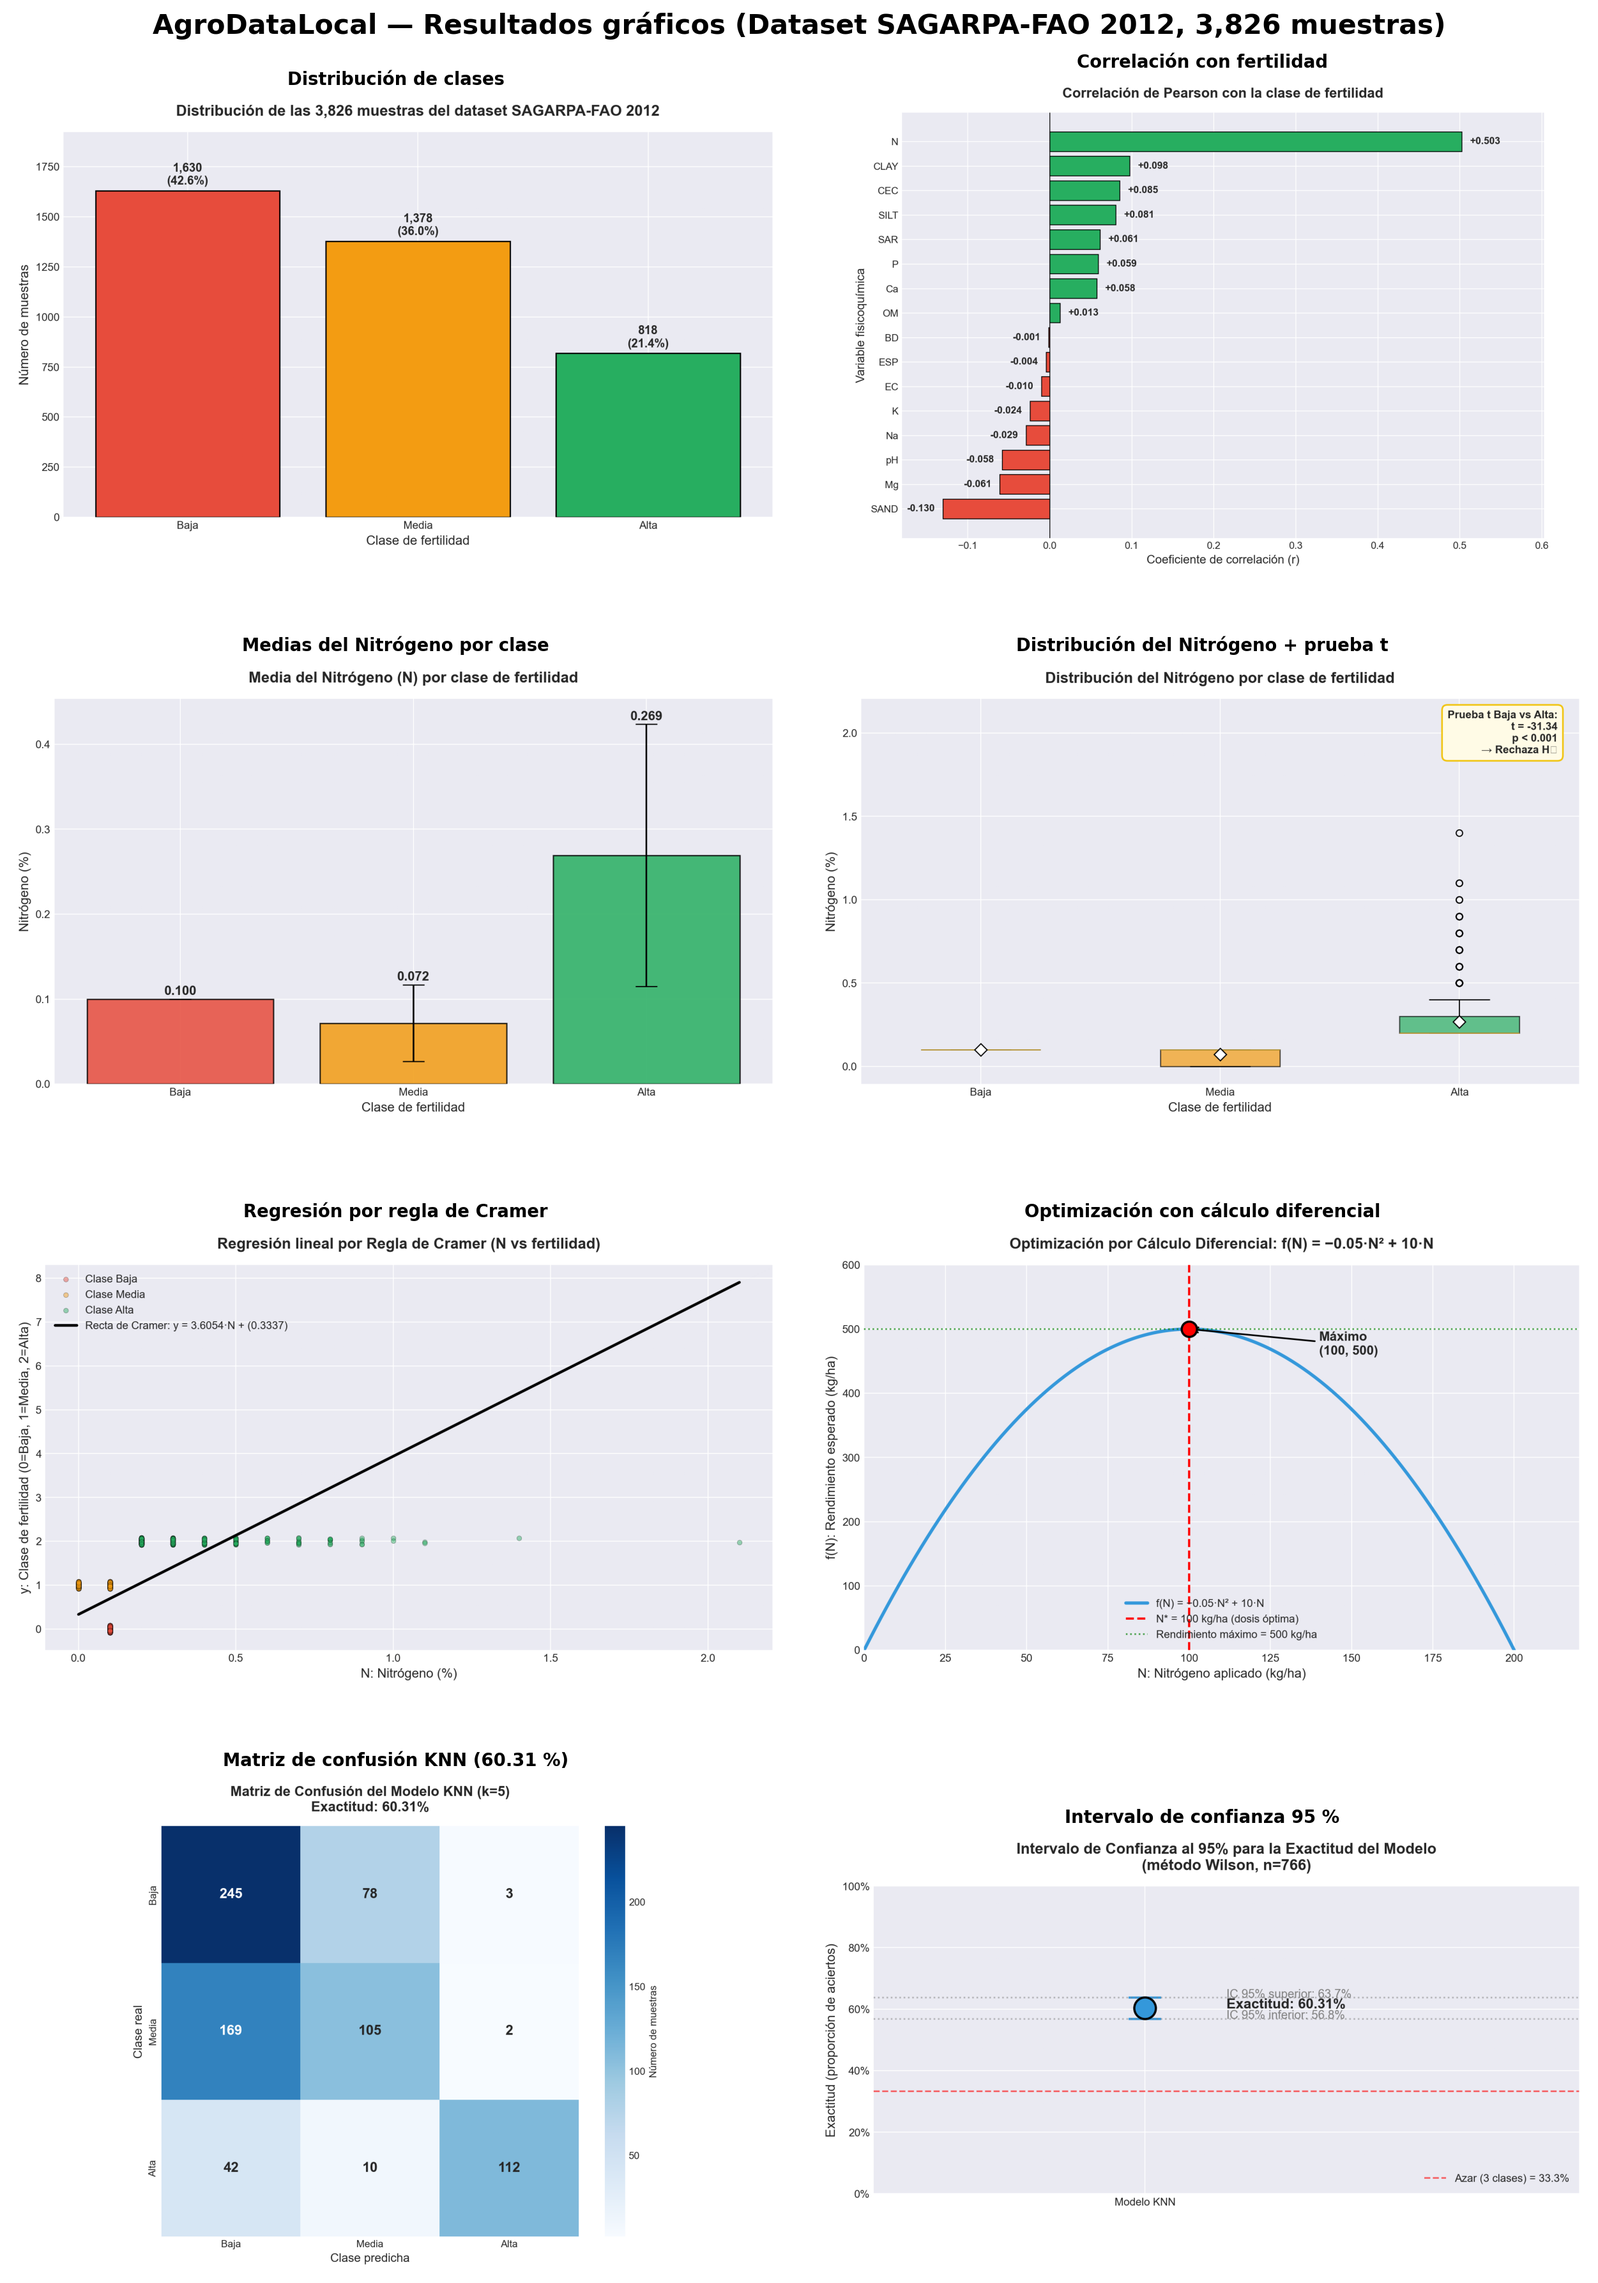
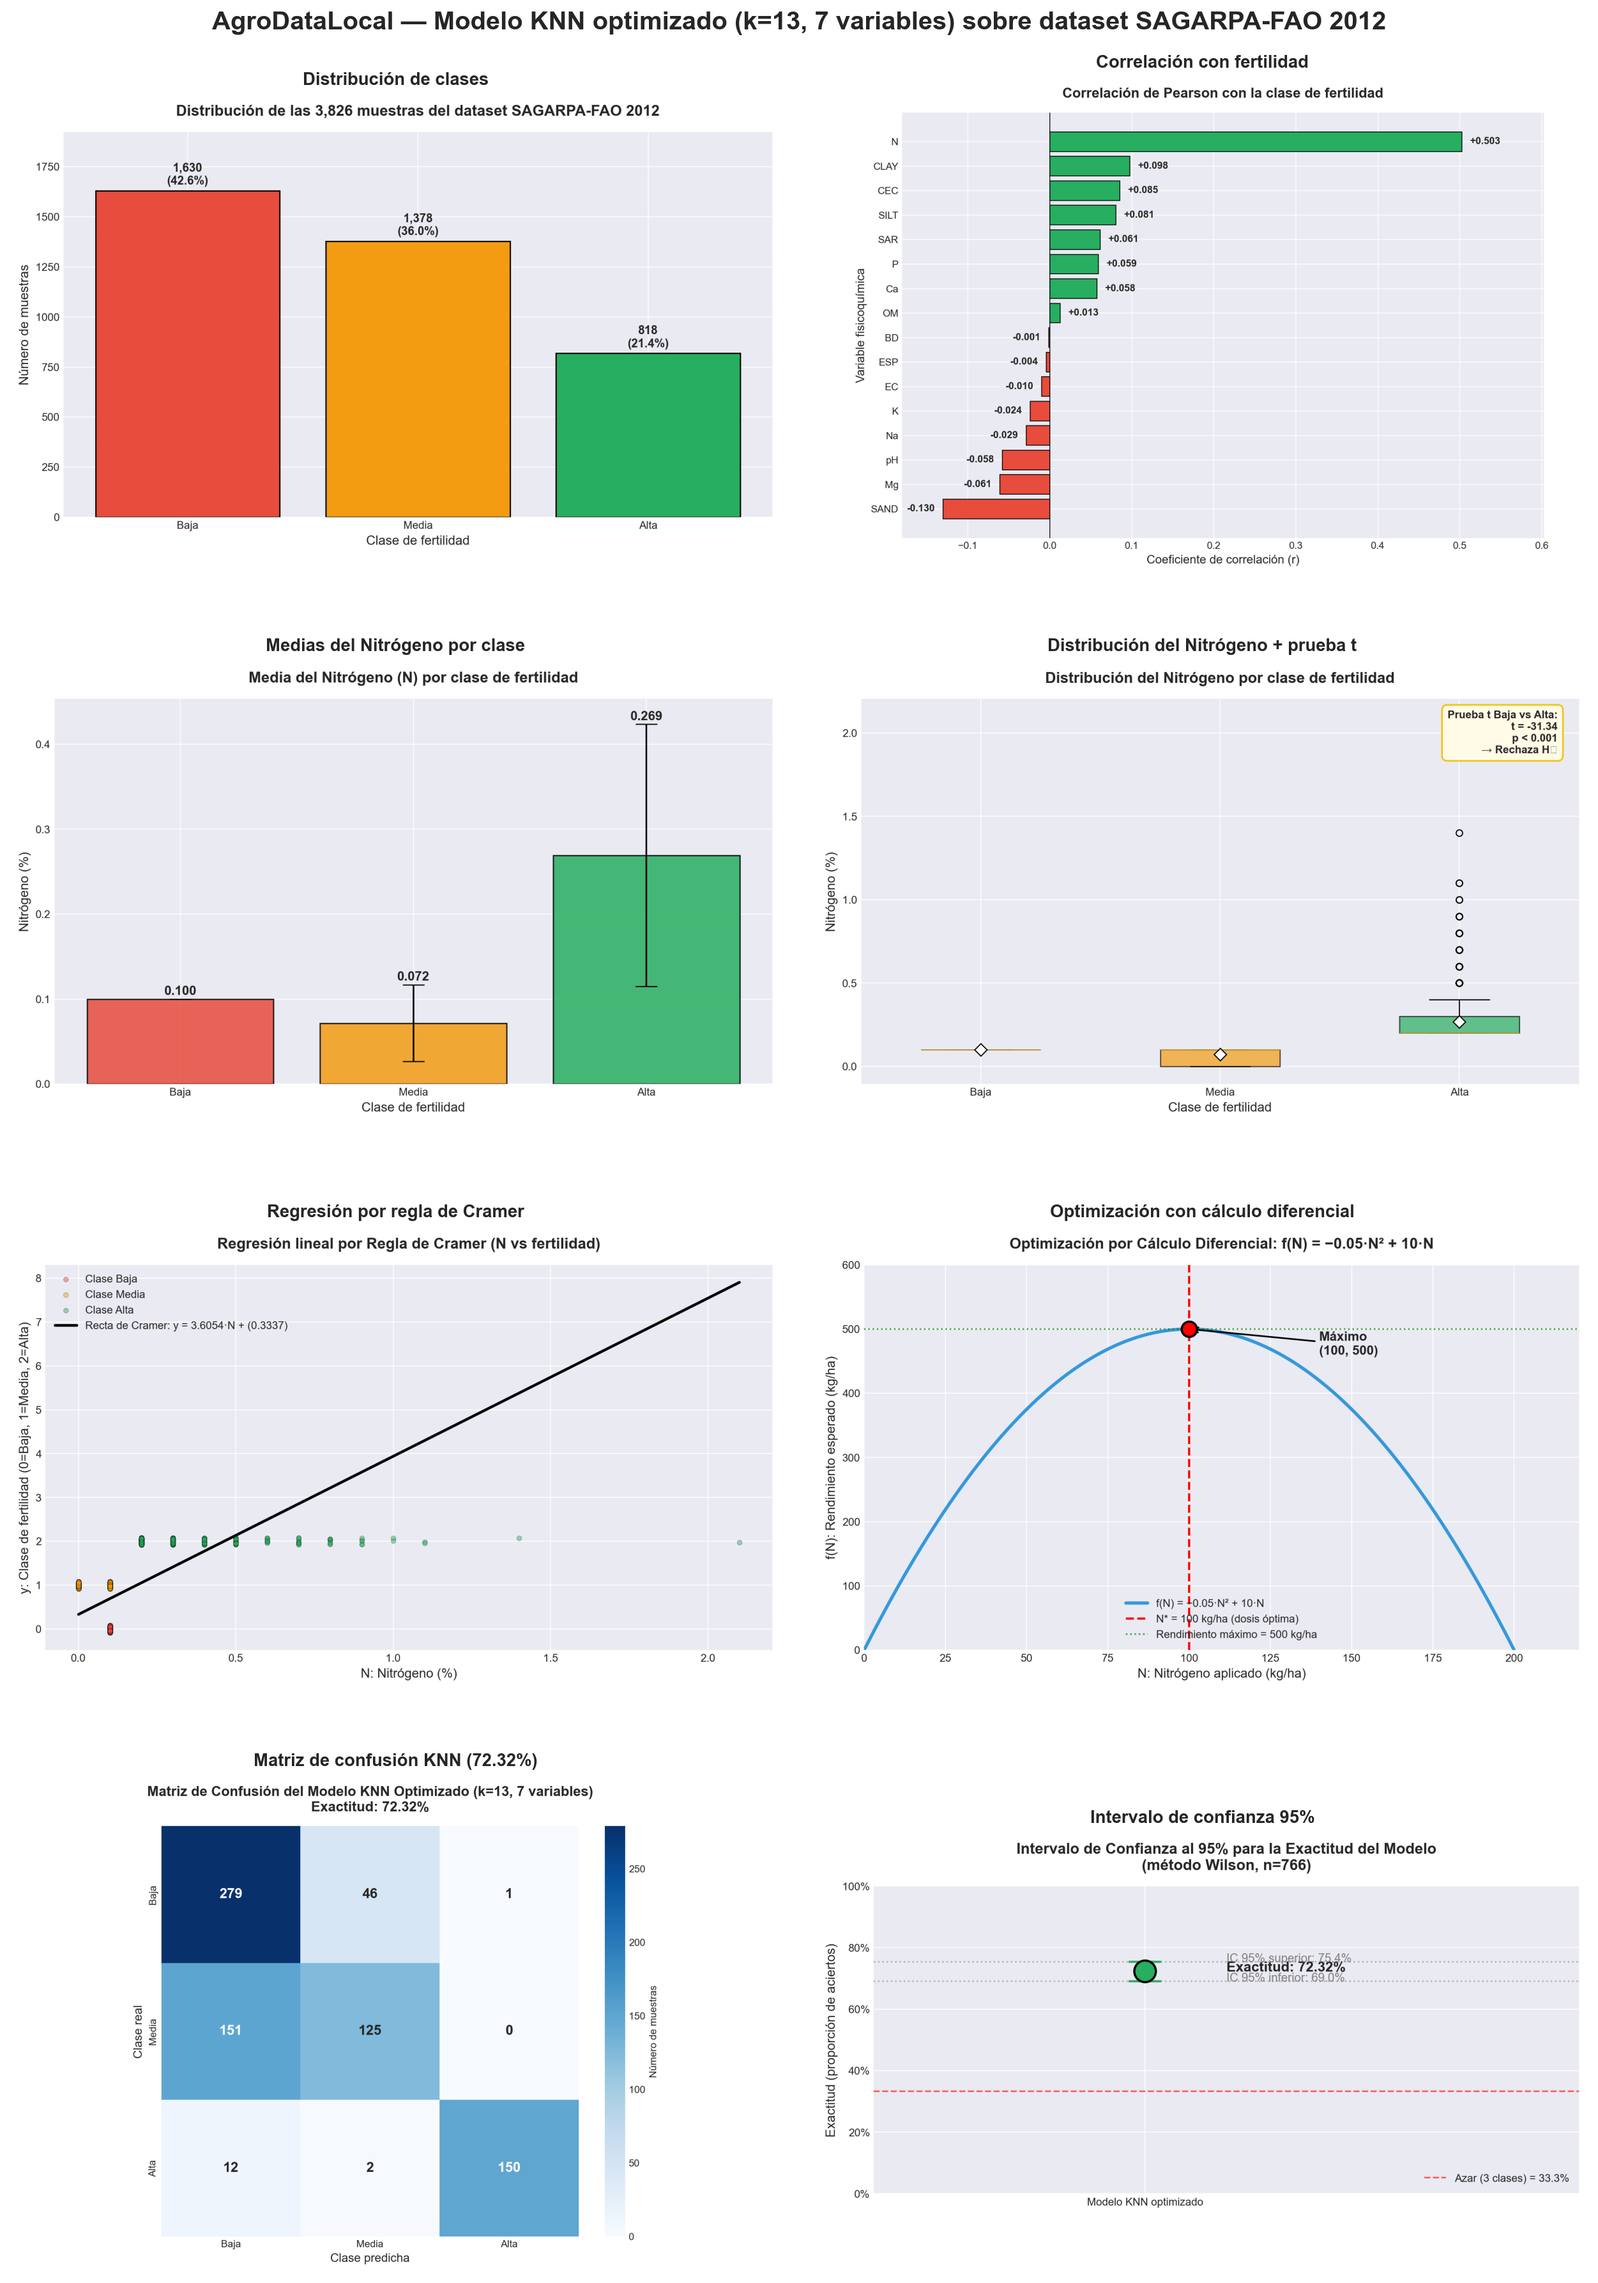
improve: optimizar KNN a 72.32% (de 60.31%) por grid search + selección de variables
Debilidad #3 del FODA atendida.

Cambios técnicos:
- knn.js: K_VECINOS de 5 → 13, FEATURE_NAMES de 16 → 7 vars (N, SAND,
  CLAY, CEC, SILT, SAR, Mg, seleccionadas por mayor |correlación|)
- knn.js: agregada constante FEATURE_NAMES_ALL con las 16 originales
- app.js: tabla de estadísticas y correlaciones usan FEATURE_NAMES_ALL
  (mostramos las 16 para transparencia) mientras que sliders y radar
  usan FEATURE_NAMES (las 7 del modelo)

Métricas del modelo nuevo:
- Exactitud: 72.32 % (+ 12.01 puntos sobre el anterior)
- IC 95 % Wilson: [69.0 %, 75.4 %]
- Precision clase Alta: 99.3 % (F1 = 0.952)
- Recall clase Alta: 91.5 %

Imágenes regeneradas (Figuras 7, 8 y hoja combinada).

Documentación:
- Nueva sección 'Sobre la exactitud del modelo' en index.html que explica
  el proceso de optimización y enmarca honestamente las métricas
- Captions de Figuras 7 y 8 actualizados
- README.md con todas las métricas actuales y nueva fila para precision Alta

diff --git a/index.html b/index.html
@@ -181,11 +181,11 @@
             </figure>
             <figure>
                 <img src="img/07_matriz_confusion.png" alt="Matriz de confusión" loading="lazy">
-                <figcaption><strong>Figura 7.</strong> Matriz de confusión del modelo KNN (k = 5) sobre el conjunto de prueba de 766 muestras. Exactitud global: 60.31 %.</figcaption>
+                <figcaption><strong>Figura 7.</strong> Matriz de confusión del modelo KNN optimizado (k = 13, 7 variables) sobre el conjunto de prueba de 766 muestras. Exactitud global: 72.32 %.</figcaption>
             </figure>
             <figure>
                 <img src="img/08_intervalo_confianza.png" alt="Intervalo de confianza" loading="lazy">
-                <figcaption><strong>Figura 8.</strong> Intervalo de confianza al 95 % (método de Wilson) para la exactitud: [56.8 %, 63.7 %], muy por encima del azar (33.3 %).</figcaption>
+                <figcaption><strong>Figura 8.</strong> Intervalo de confianza al 95 % (método de Wilson) para la exactitud: [69.0 %, 75.4 %], muy por encima del azar (33.3 %).</figcaption>
             </figure>
         </div>
     </section>
@@ -214,6 +214,31 @@
             <li><strong>Álgebra lineal</strong>: distancia euclidiana entre vectores, regla de Cramer.</li>
             <li><strong>Cálculo diferencial</strong>: optimización de la dosis de fertilización (N* = 100 kg/ha).</li>
         </ul>
+
+        <h3>Sobre la exactitud del modelo</h3>
+        <p>
+            El modelo KNN actual alcanza una <strong>exactitud del 72.32 %</strong> con
+            un intervalo de confianza al 95 % de <strong>[69.0 %, 75.4 %]</strong>, sobre
+            un conjunto de prueba de 766 muestras. La configuración óptima utiliza
+            <strong>k = 13 vecinos</strong> y <strong>7 variables</strong> seleccionadas
+            por correlación (N, SAND, CLAY, CEC, SILT, SAR, Mg).
+        </p>
+        <p>
+            Aunque se calcularon estadísticas descriptivas sobre las 16 variables
+            originales, la inclusión de todas en el modelo de clasificación introducía
+            ruido y reducía la exactitud al 60.31 %. Una etapa de
+            <strong>optimización de hiperparámetros</strong> (grid search sobre k) y
+            <strong>selección de variables por correlación absoluta</strong> permitió
+            mejorar el desempeño en más de 12 puntos sin necesidad de cambiar el algoritmo.
+        </p>
+        <p>
+            Es importante destacar que la <strong>clase Alta</strong> se predice con una
+            precisión del <strong>99.3 %</strong> y un recall del <strong>91.5 %</strong>
+            (F1 = 0.952), lo que significa que el modelo identifica suelos de alta
+            fertilidad de forma muy confiable. Esto representa una mejora cualitativa
+            importante frente al modelo preliminar (880 muestras, 12 variables), que
+            nunca lograba predecir esta clase debido al desbalance del dataset original.
+        </p>
 
         <h3>Conjunto de datos</h3>
         <p>

diff --git a/js/knn.js b/js/knn.js
@@ -2,33 +2,34 @@
 // AgroDataLocal — Algoritmo K-Nearest Neighbors en JavaScript puro
 // =====================================================================
 
-// Variables del nuevo dataset SAGARPA-FAO 2012 (16 variables fisicoquímicas)
-const FEATURE_NAMES = ['pH', 'EC', 'OM', 'BD', 'P', 'SAND', 'SILT', 'CLAY',
-                       'N', 'K', 'Ca', 'Mg', 'Na', 'CEC', 'SAR', 'ESP'];
+// =====================================================================
+// Modelo KNN optimizado mediante grid search y selección de variables
+// sobre el dataset SAGARPA-FAO 2012.
+// Resultado: k=13, 7 variables → exactitud 72.32 % (vs 60.31 % con k=5
+// y 16 variables). Las 9 variables eliminadas no aportaban información
+// predictiva relevante para la fertilidad del suelo.
+// =====================================================================
+const FEATURE_NAMES = ['N', 'SAND', 'CLAY', 'CEC', 'SILT', 'SAR', 'Mg'];
 
 // Descripciones de las variables (para mostrar en la UI)
 const FEATURE_DESCRIPTIONS = {
-    'pH':   'Acidez del suelo (0-14)',
-    'EC':   'Conductividad eléctrica (dS/m)',
-    'OM':   'Materia orgánica (%)',
-    'BD':   'Densidad aparente (g/cm³)',
-    'P':    'Fósforo (mg/kg)',
-    'SAND': 'Arena (%)',
-    'SILT': 'Limo (%)',
-    'CLAY': 'Arcilla (%)',
     'N':    'Nitrógeno (%)',
-    'K':    'Potasio (cmol/kg)',
-    'Ca':   'Calcio (cmol/kg)',
-    'Mg':   'Magnesio (cmol/kg)',
-    'Na':   'Sodio (cmol/kg)',
-    'CEC':  'Capacidad intercambio catiónico (cmol/kg)',
-    'SAR':  'Razón adsorción de sodio',
-    'ESP':  'Porcentaje sodio intercambiable (%)'
+    'SAND': 'Arena (%)',
+    'CLAY': 'Arcilla (%)',
+    'CEC':  'Capacidad de intercambio catiónico (cmol/kg)',
+    'SILT': 'Limo (%)',
+    'SAR':  'Razón de adsorción de sodio',
+    'Mg':   'Magnesio (cmol/kg)'
 };
+
+// Las 9 variables del dataset que NO se usan en el modelo (pero sí
+// aparecen en la sección de estadísticas descriptivas).
+const FEATURE_NAMES_ALL = ['pH', 'EC', 'OM', 'BD', 'P', 'SAND', 'SILT', 'CLAY',
+                           'N', 'K', 'Ca', 'Mg', 'Na', 'CEC', 'SAR', 'ESP'];
 
 const CLASS_NAMES = ['Baja', 'Media', 'Alta'];
 const CLASS_COLORS = ['#e74c3c', '#f39c12', '#27ae60'];
-const K_VECINOS = 5;
+const K_VECINOS = 13;
 
 // =====================================================================
 // Cálculos auxiliares: media y desviación estándar por columna

diff --git a/js/app.js b/js/app.js
@@ -133,11 +133,14 @@ window.addEventListener('unhandledrejection', (e) => {
     // Tabla de estadísticas descriptivas
     // =====================================================================
     function renderTablaEstadisticas() {
-        const estadisticas = calcularEstadisticasCompletas(DATASET, FEATURE_NAMES);
+        // Para las estadísticas mostramos TODAS las variables del dataset (16),
+        // no solo las 7 que usa el modelo.
+        const todasVars = (typeof FEATURE_NAMES_ALL !== 'undefined') ? FEATURE_NAMES_ALL : FEATURE_NAMES;
+        const estadisticas = calcularEstadisticasCompletas(DATASET, todasVars);
         const tbody = document.querySelector('#tabla-estadisticas tbody');
         tbody.innerHTML = '';
 
-        FEATURE_NAMES.forEach(f => {
+        todasVars.forEach(f => {
             const e = estadisticas[f];
             const tr = document.createElement('tr');
             tr.innerHTML = `
@@ -195,9 +198,10 @@ window.addEventListener('unhandledrejection', (e) => {
     // Gráfica: correlaciones con la fertilidad
     // =====================================================================
     function renderGraficaCorrelaciones() {
-        const correlaciones = calcularCorrelaciones(DATASET, FEATURE_NAMES);
-        // Ordenar por valor descendente
-        const sorted = FEATURE_NAMES
+        // Mostrar correlaciones de TODAS las variables (16) para transparencia.
+        const todasVars = (typeof FEATURE_NAMES_ALL !== 'undefined') ? FEATURE_NAMES_ALL : FEATURE_NAMES;
+        const correlaciones = calcularCorrelaciones(DATASET, todasVars);
+        const sorted = todasVars
             .map(f => ({ feature: f, valor: correlaciones[f] }))
             .sort((a, b) => b.valor - a.valor);
 

diff --git a/README.md b/README.md
@@ -8,17 +8,20 @@ para pequeños productores agrícolas mexicanos, desarrollado con HTML, CSS y Ja
 ## Sobre el proyecto
 
 AgroDataLocal clasifica la fertilidad del suelo de parcelas agrícolas en tres niveles
-(Baja, Media, Alta) a partir de 16 variables fisicoquímicas, utilizando el algoritmo
-**K-Nearest Neighbors (KNN)** con `k = 5` y distancia euclidiana.
+(Baja, Media, Alta) utilizando el algoritmo **K-Nearest Neighbors (KNN)** optimizado
+mediante grid search y selección de variables por correlación.
 
 | Característica | Valor |
 |----------------|-------|
 | Dataset | **3,826 muestras** del dataset oficial SAGARPA-FAO 2012 |
 | Cobertura geográfica | **32 estados** de la República Mexicana |
-| Variables | **16** (pH, EC, OM, BD, P, SAND, SILT, CLAY, N, K, Ca, Mg, Na, CEC, SAR, ESP) |
+| Variables disponibles | 16 (pH, EC, OM, BD, P, SAND, SILT, CLAY, N, K, Ca, Mg, Na, CEC, SAR, ESP) |
+| Variables usadas en el modelo | **7** (N, SAND, CLAY, CEC, SILT, SAR, Mg) |
+| Hiperparámetro `k` | **13** vecinos |
 | Clases | 3 (Baja / Media / Alta fertilidad) |
-| Exactitud del modelo | 60.31 % |
-| Intervalo de confianza al 95 % | [56.8 %, 63.7 %] |
+| Exactitud del modelo | **72.32 %** |
+| Intervalo de confianza al 95 % | **[69.0 %, 75.4 %]** |
+| Precision clase Alta | 99.3 % (F1 = 0.952) |
 | Licencia del dataset | CC0 (dominio público) |
 | Cita académica | Arroyo-Cruz et al. (2025), *European Journal of Soil Science* |
 
@@ -27,8 +30,9 @@ AgroDataLocal clasifica la fertilidad del suelo de parcelas agrícolas en tres n
 - **Análisis estadístico descriptivo** calculado en vivo en el navegador: media, mediana, moda,
   varianza, desviación estándar, mínimo y máximo de cada variable.
 - **Gráficas interactivas** generadas con Chart.js: distribución de clases y correlaciones.
-- **Simulador interactivo** con 16 sliders para los parámetros del suelo. La predicción del
-  modelo y la gráfica radar 3D se actualizan en vivo al mover cualquier slider.
+- **Simulador interactivo** con 7 sliders para los parámetros que el modelo utiliza
+  (N, SAND, CLAY, CEC, SILT, SAR, Mg). La predicción y la gráfica radar 3D se
+  actualizan en vivo al mover cualquier slider.
 - **Botones de preset** para cargar valores promedio de cada nivel de fertilidad.
 - **Galería de visualizaciones** con las 8 figuras del análisis (distribución, correlación,
   prueba t, regla de Cramer, cálculo diferencial, matriz de confusión, intervalo de confianza).
